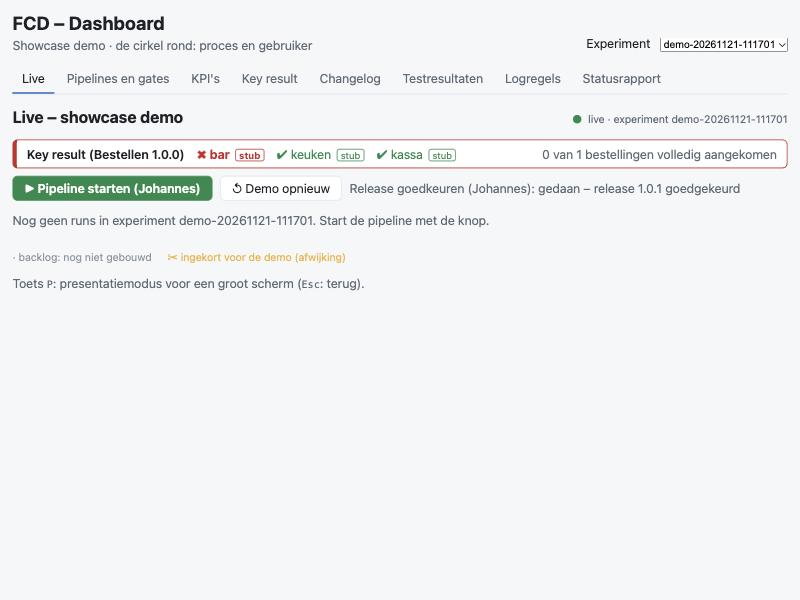
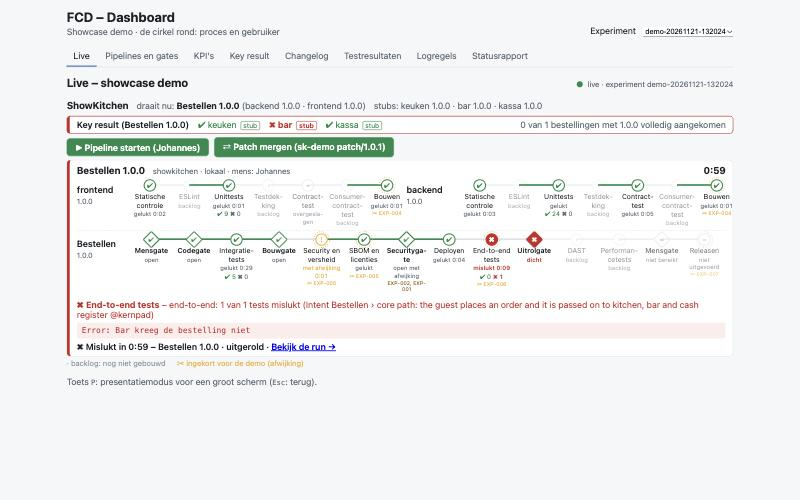
Nieuwe schermafbeeldingen en draaiboek: de ShowKitchen-regel met stubs, live op één scherm

diff --git a/demo-draaiboek.md b/demo-draaiboek.md
@@ -27,7 +27,7 @@ Vanuit de map `fcd-labs`. Pipeline en Dashboard zijn van FCD; deze showcase gebr
 ## 3. De fout zien (± 2 min)
 
 1. ShowKitchen: kies iets te eten en te drinken, tafelnummer, **Bestelling plaatsen**. Keuken en kassa ✓, **bar ✕ niet gelukt**.
-2. Dashboard, Live: **Draait nu: Bestellen 1.0.0** (frontend 1.0.0, backend 1.0.0). Bovenaan het key result **rood: ✖ bar (stub)**. Keuken, bar en kassa zijn stubs: geen deelproduct, ze lopen niet door de pipeline van Bestellen.
+2. Dashboard, Live (alles op één scherm): **ShowKitchen – draait nu: Bestellen 1.0.0** (backend 1.0.0 · frontend 1.0.0), stubs: keuken, bar, kassa 1.0.0. Daaronder het key result **rood: ✖ bar (stub)**. Keuken, bar en kassa zijn stubs: geen deelproduct, ze lopen niet door de pipeline van Bestellen.
 3. De pipeline van 1.0.0: groen tot de end-to-end test, die is rood: de bar kreeg de bestelling niet. De uitrolgate is dicht: 1.0.0 draait, maar is niet gereleased.
 
 ## 4. De patch (± 2 min, terminal)
